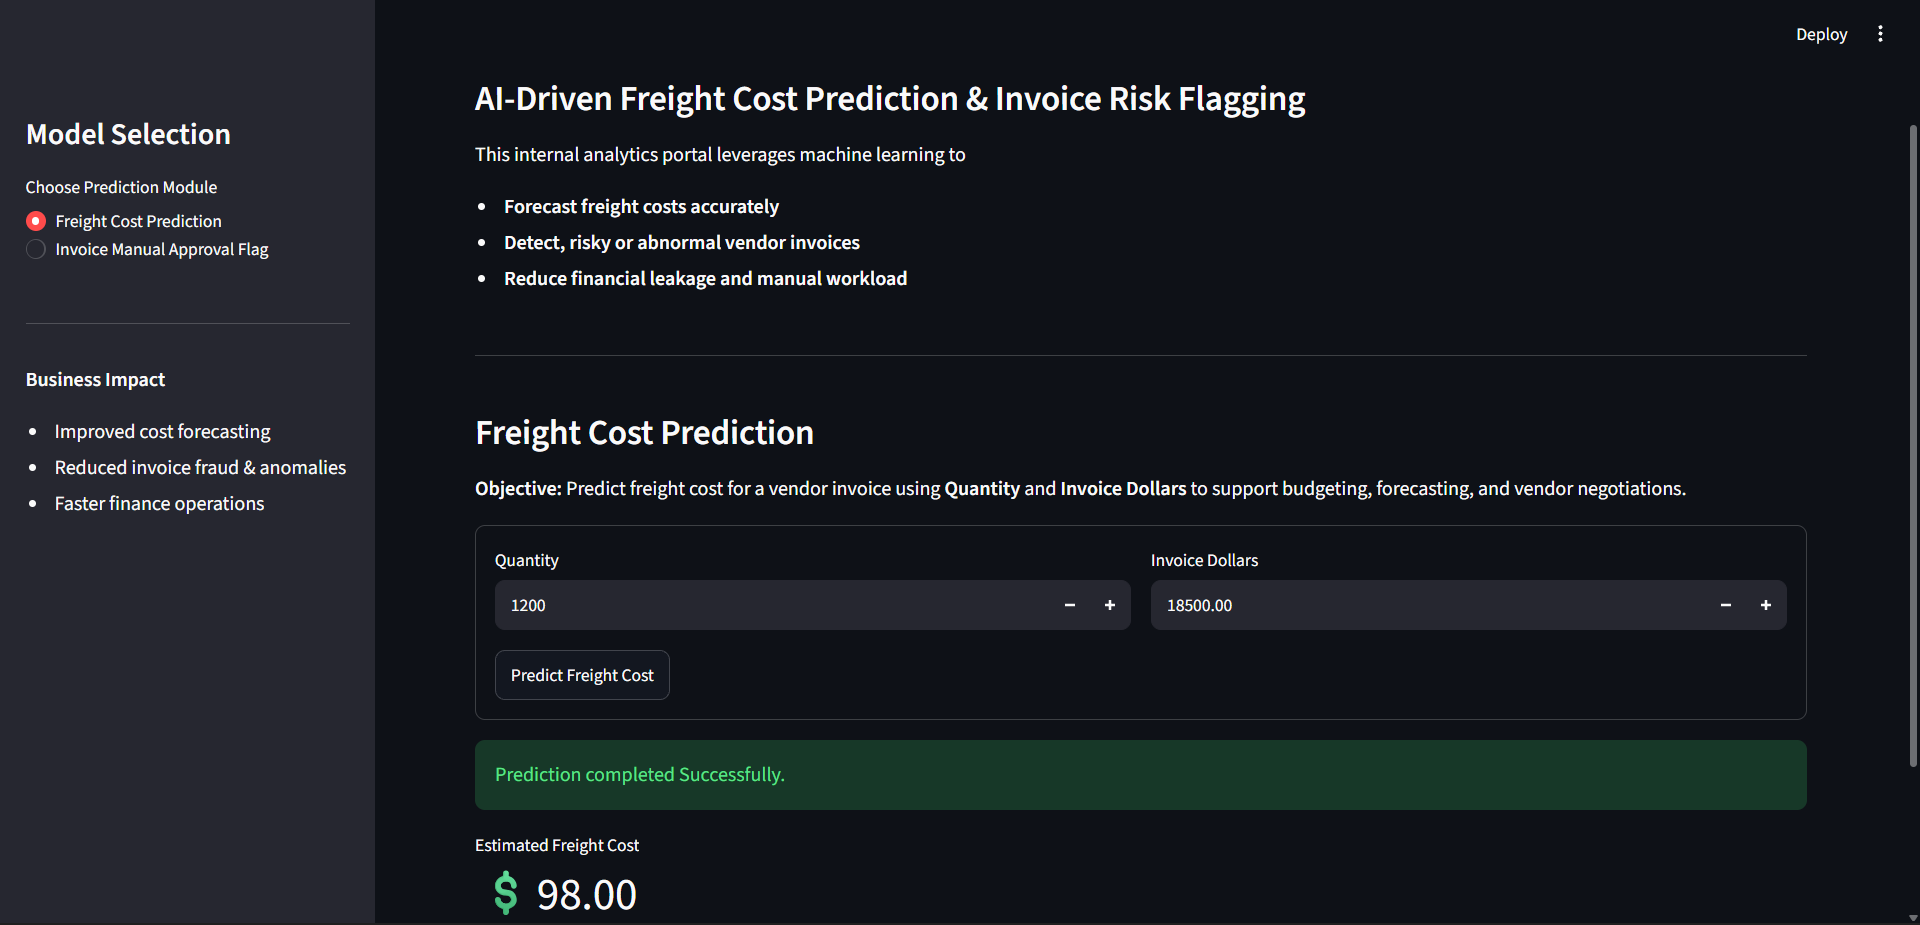
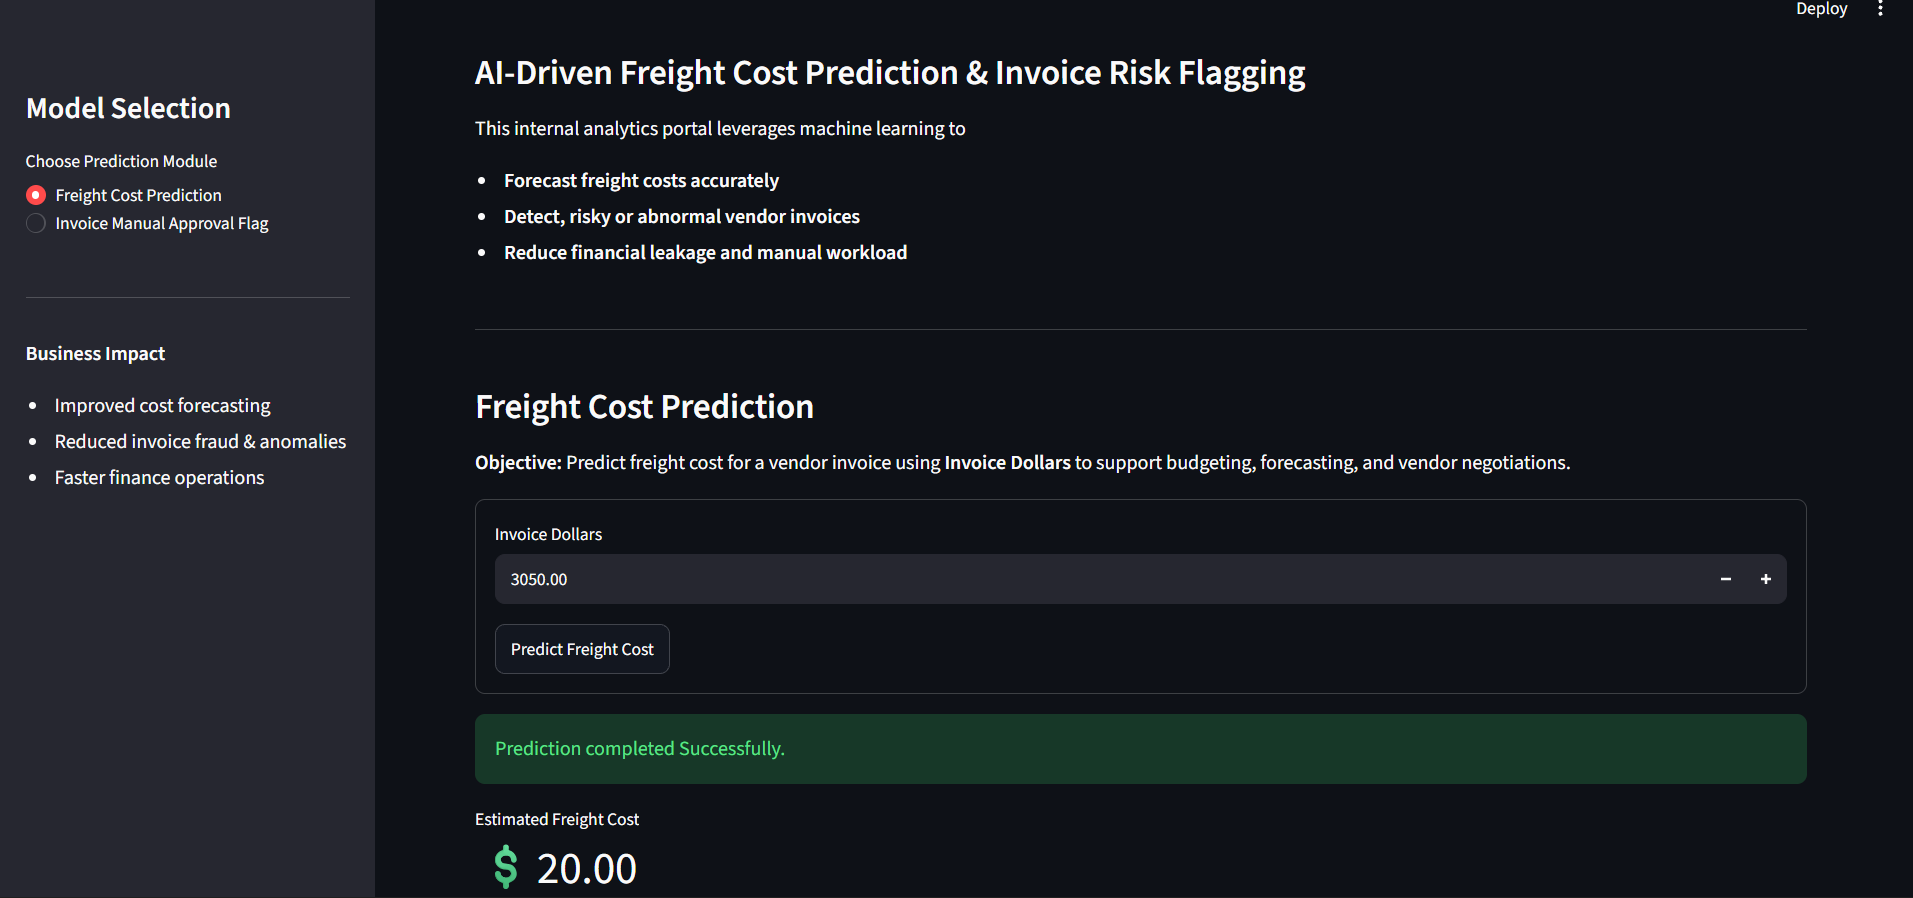
Updated model and readme

diff --git a/app.py b/app.py
@@ -51,22 +51,12 @@ if selected_model == "Freight Cost Prediction":
 
     st.markdown ("""
     **Objective:**
-    Predict freight cost for a vendor invoice using **Quantity** and **Invoice Dollars**
+    Predict freight cost for a vendor invoice using **Invoice Dollars**
     to support budgeting, forecasting, and vendor negotiations.
     """)
 
-    with st.form("Freight Form"):
-        col1, col2 = st.columns(2)
-
-        with col1:
-            quantity = st.number_input(
-                "Quantity",
-                min_value = 1,
-                value = 1200
-            )
-
-        with col2:
-            dollars = st.number_input(
+    with st.form("Freight Form"):    
+        dollars = st.number_input(
                 "Invoice Dollars",
                 min_value = 1.0,
                 value = 18500.0

diff --git a/README.md b/README.md
@@ -29,7 +29,7 @@ This project implements an end-to-end machine learning system designed to suppor
 # 1. Freight Cost Prediction (Regression)
 
 **Objective:**
-Predict the expected freight cost for a vendor invoice using quantity, invoice value, and historical behavior.
+Predict the expected freight cost for a vendor invoice using invoice value, and historical behavior.
 
 **Why it matters:**
 * Freight is a non-trivial component of landed cost.
